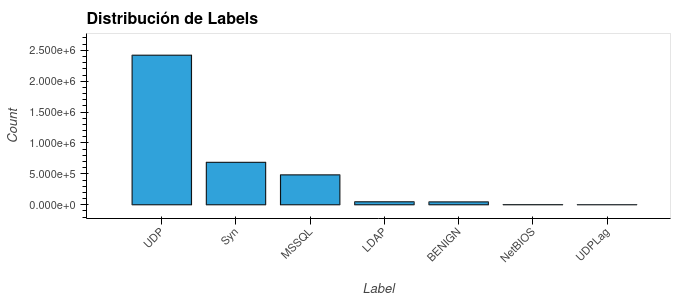
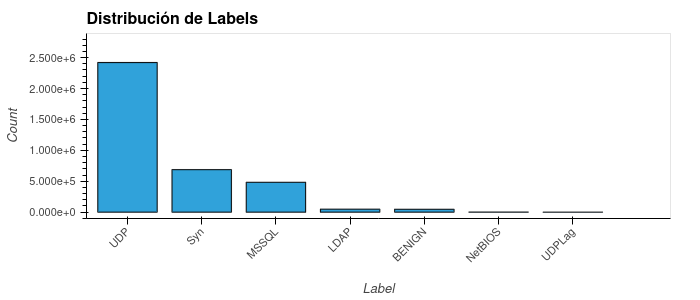
Balanced and split

diff --git a/Scripts/check.py b/Scripts/check.py
@@ -1,21 +1,88 @@
 import pandas as pd
+import numpy as np
 import glob
+import os
 from tqdm import tqdm
+#from fastai.tabular.all import df_shrink
+
+#Variable type
+#Schema={
+#    " Total Fwd Packets" : "int32",
+#    " Fwd Header Length" : "int64",
+#    " Bwd Header Length" : "int64",
+#    "Subflow Fwd Packets" : "int32",
+#    " act_data_pkt_fwd" : "int16",
+#    " min_seg_size_forward" : "int32"
+#}
+
+#def apply_schema(df,schema):
+#    for col,dtype in schema.items():
+#        if col in df.columns:
+#            df[col]=df[col].astype(dtype)
+#    return df
+
+#columns_drop=[
+#    "Unnamed: 0",
+#    "Flow ID",
+#    " Source IP",
+#    " Source Port",
+#    " Destination IP",
+#    " Destination Port",
+#    " Timestamp",
+#    " Fwd Header Length.1",
+#    " Inbound",
+#    "SimillarHTTP"
+#]
+
+#for file in tqdm(archivos_input):
+#    nombre=os.path.basename(file)
+#    print(f"Leyendo: {nombre}")
+#
+#    df=pd.read_csv(file,usecols=lambda column: column not in columns_drop)
+#    print('\n',"---------------------------------------------------------",'\n')
+#    #inicial_mem=df.memory_usage().sum()
+#    #print("Uso inicial de memoria: ",inicial_mem,"MB")
+#    df.dropna(inplace=True)
+#    df=df_shrink(df,obj2cat=False,skip=[' Label'])
+#    df=apply_schema(df,Schema)
+#    pd.set_option('display.max_rows',None)
+#    print(df.dtypes)
+#    print('\n',"---------------------------------------------------------",'\n')
+
+    #Columnas todo 0
+    #print('\n',"---------------------------------------------------------",'\n')
+    #columnas_cero=df.columns[(df==0).all()].tolist()
+    #print(columnas_cero)
+    #print('\n',"---------------------------------------------------------",'\n')
+
+
 
 #archivos_input=(
 #    glob.glob("/home/serg/Documentos/Proyecto/Files/CSV-01-12/01-12/*.csv") + 
 #    glob.glob("/home/serg/Documentos/Proyecto/Files/CSV-03-11/03-11/*.csv")
 #)
-#for file in tqdm(archivos_input):
-#    df=pd.read_csv(file)
-#    print(file,':\n',df[' Label'].value_counts())
+#Escribir cuantos de cada Label hay por cada doc
+archivos_input=glob.glob("/home/serg/Documentos/Proyecto/Files/Training/*.parquet")
 
-#print(df[' Label'].value_counts(),'\n')
+for file in tqdm(archivos_input):
+    if file != "/home/serg/Documentos/Proyecto/Files/Training/full.parquet":
+        df=pd.read_parquet(file)
+        print(file,':\n',df['LabelBin'].value_counts())
 
-file="/home/serg/Documentos/Proyecto/Files/Parquet/UDP.parquet"
-df=pd.read_parquet(file)
+#print(df['LabelBin'].value_counts(),'\n')
 
-for i in range(101):
-    row = [i]
-    print(df.loc[df.index[row]],'\n')
+#file="/home/serg/Documentos/Proyecto/Files/Training/train.parquet"
+#df=pd.read_parquet(file)
+
+#Imprime todas las columnas
+#res=df.columns.to_list()
+#print("Lista de columnas:",'\n')
+#print(res)
+#print('\n',"Número de columnas:")
+#print(len(res))
+
+#Escribir las primeras 100 líneas del doc
+#for i in range(101):
+#    row = [i]
+#    print(df.loc[df.index[row]],'\n')
     

diff --git a/Scripts/split.py b/Scripts/split.py
@@ -1,0 +1,81 @@
+import glob
+import pandas as pd
+import numpy as np
+from sklearn.model_selection import train_test_split
+from sklearn.utils import resample
+
+#########################################
+#Dataframe
+#########################################
+rutas=glob.glob("/home/serg/Documentos/Proyecto/Files/Parquet/*.parquet")
+dfs=[pd.read_parquet(r) for r in rutas]
+df=pd.concat(dfs,ignore_index=True)
+
+#########################################
+#Resample
+#########################################
+UDP_df=df[df[" Label"]=="UDP"]
+LDAP_df=df[df[" Label"]=="LDAP"]
+MSSQL_df=df[df[" Label"]=="MSSQL"]
+Syn_df=df[df[" Label"]=="Syn"]
+Benign_df=df[df[" Label"]=="BENIGN"]
+
+n_objetivo=20000
+
+UDP_bal=resample(UDP_df,replace=False,n_samples=n_objetivo,random_state=42)
+LDAP_bal=resample(LDAP_df,replace=False,n_samples=n_objetivo,random_state=42)
+MSSQL_bal=resample(MSSQL_df,replace=False,n_samples=n_objetivo,random_state=42)
+Syn_bal=resample(Syn_df,replace=False,n_samples=n_objetivo,random_state=42)
+df=pd.concat([UDP_bal,LDAP_bal,MSSQL_bal,Syn_bal,Benign_df],ignore_index=True)
+
+df.to_parquet(f"/home/serg/Documentos/Proyecto/Files/Training/full.parquet")
+
+#########################################
+#Label Encode
+#########################################
+df["LabelBin"]=(df[" Label"]!="BENIGN").astype("int32")
+df=df.drop(columns=[" Label"])
+
+#########################################
+#Divide Train, Val y Test
+#########################################
+x=df.drop(columns=["LabelBin"])
+y=df["LabelBin"]
+
+x_train,x_temp,y_train,y_temp=train_test_split(
+    x,y,
+    test_size=0.30,
+    random_state=42,
+    stratify=y
+)
+
+x_val,x_test,y_val,y_test=train_test_split(
+    x_temp,y_temp,
+    test_size=0.50,
+    random_state=42,
+    stratify=y_temp
+)
+
+print("Train:",x_train.shape,y_train.shape)
+print("Validation:",x_val.shape,y_val.shape)
+print("Test:",x_test.shape,y_test.shape)
+
+#########################################
+#Fill Parquet
+#########################################
+train_df=x_train.copy()
+train_df["LabelBin"]=y_train.copy()
+
+val_df=x_val.copy()
+val_df["LabelBin"]=y_val.copy()
+
+test_df=x_test.copy()
+test_df["LabelBin"]=y_test.copy()
+
+#train_bal=train_bal.sample(frac=1,random_state=42).reset_index(drop=True)
+
+#x_train_bal=train_bal.drop(columns=[" Label"]).astype("float32").to_numpy()
+
+train_df.to_parquet(f"/home/serg/Documentos/Proyecto/Files/Training/train.parquet")
+val_df.to_parquet(f"/home/serg/Documentos/Proyecto/Files/Training/val.parquet")
+test_df.to_parquet(f"/home/serg/Documentos/Proyecto/Files/Training/test.parquet")

diff --git a/Scripts/change.py b/Scripts/change.py
@@ -3,11 +3,27 @@ import numpy as np
 import glob
 import os
 from tqdm import tqdm
+from fastai.tabular.all import df_shrink
 
 archivos_input=(
     glob.glob("/home/serg/Documentos/Proyecto/Files/CSV-01-12/01-12/*.csv") + 
     glob.glob("/home/serg/Documentos/Proyecto/Files/CSV-03-11/03-11/*.csv")
 )
+
+Schema={
+    " Total Fwd Packets" : "int32",
+    " Fwd Header Length" : "int64",
+    " Bwd Header Length" : "int64",
+    "Subflow Fwd Packets" : "int32",
+    " act_data_pkt_fwd" : "int16",
+    " min_seg_size_forward" : "int32"
+}
+
+def apply_schema(df,schema):
+    for col,dtype in schema.items():
+        if col in df.columns:
+            df[col]=df[col].astype(dtype)
+    return df
 
 columns_drop=[
     "Unnamed: 0",
@@ -17,6 +33,20 @@ columns_drop=[
     " Destination IP",
     " Destination Port",
     " Timestamp",
+    " Bwd PSH Flags",
+    " Fwd URG Flags",
+    " Bwd URG Flags",
+    "FIN Flag Count",
+    " PSH Flag Count",
+    " ECE Flag Count",
+    "Fwd Avg Bytes/Bulk",
+    " Fwd Avg Packets/Bulk",
+    " Fwd Avg Bulk Rate",
+    " Bwd Avg Bytes/Bulk",
+    " Bwd Avg Packets/Bulk",
+    "Bwd Avg Bulk Rate",
+    " Fwd Header Length.1",
+    " Inbound",
     "SimillarHTTP"
 ]
 
@@ -28,9 +58,9 @@ for file in tqdm(archivos_input):
     #inicial_mem=df.memory_usage().sum()
     #print("Uso inicial de memoria: ",inicial_mem,"MB")
     df.dropna(inplace=True)
+    df=df_shrink(df,obj2cat=False,skip=[' Label'])
+    df=apply_schema(df,Schema)
     df.drop_duplicates(inplace=True)
-    #df=df.apply(lambda x: x.astype("float32") if np.issubdtype(x.dtype,np.floating) else x)
-    #df=df.apply(lambda x: x.astype("int32") if np.issubdtype(x.dtype,np.integer) else x)
     #final_mem=df.memory_usage().sum()
     #print("Uso final de memoria: ",final_mem,"MB")
 

diff --git a/Scripts/mod.py b/Scripts/mod.py
@@ -1,7 +1,11 @@
 import pandas as pd
 
-df=pd.read_parquet("/home/serg/Documentos/Proyecto/Files/Parquet/DrDoS_UDP.parquet")
+df=pd.read_parquet("/home/serg/Documentos/Proyecto/Files/Parquet/LDAP.parquet")
 
-df[' Label']=df[' Label'].replace("DrDoS_UDP","UDP")
+#df[' Label']=df[' Label'].replace("DrDoS_UDP","UDP")
 
-df.to_parquet("/home/serg/Documentos/Proyecto/Files/Parquet/DrDoS_UDP.parquet")
+#df.to_parquet("/home/serg/Documentos/Proyecto/Files/Parquet/DrDoS_UDP.parquet")
+
+df=df.drop(df[df[" Label"].isin(["NetBIOS","UDPLag"])].index)
+
+df.to_parquet(f"/home/serg/Documentos/Proyecto/Files/Parquet/LDAP.parquet")